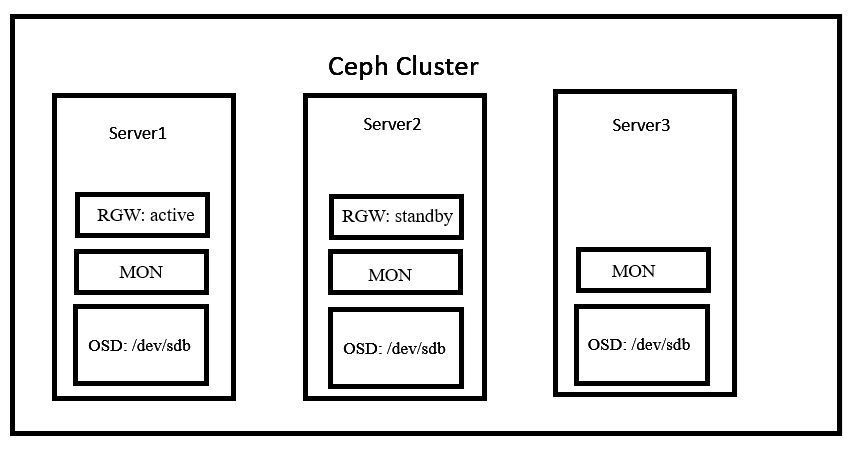
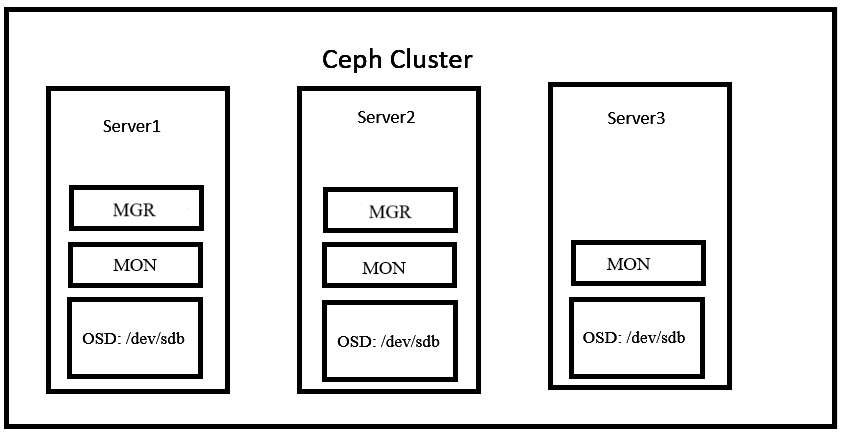
save

diff --git a/README.md b/README.md
@@ -6,7 +6,7 @@ This repository provides a streamlined approach to deploying a Ceph cluster usin
 
 Basic Ceph Storage Cluster Architecture Overview:
 
-![alt text](png/image-7.png)
+![alt text](png/image-6.png)
 
 ## Quick Start
 
